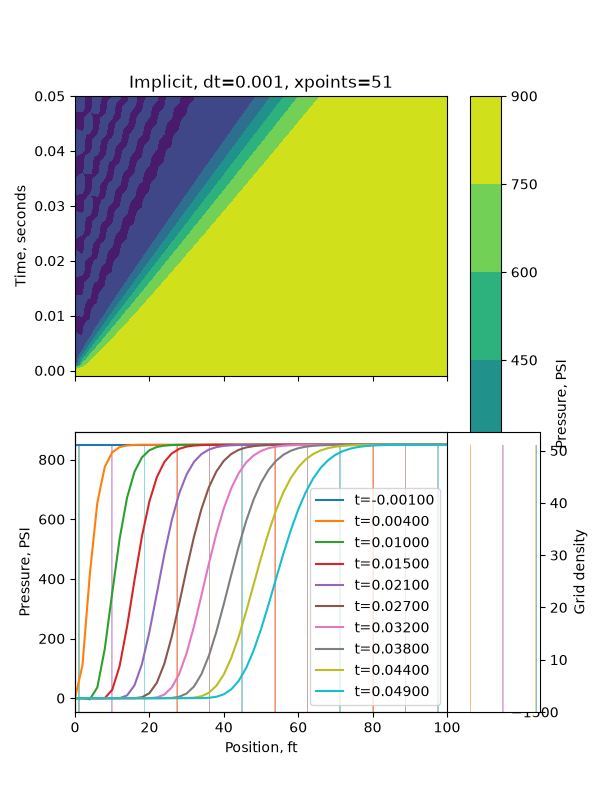
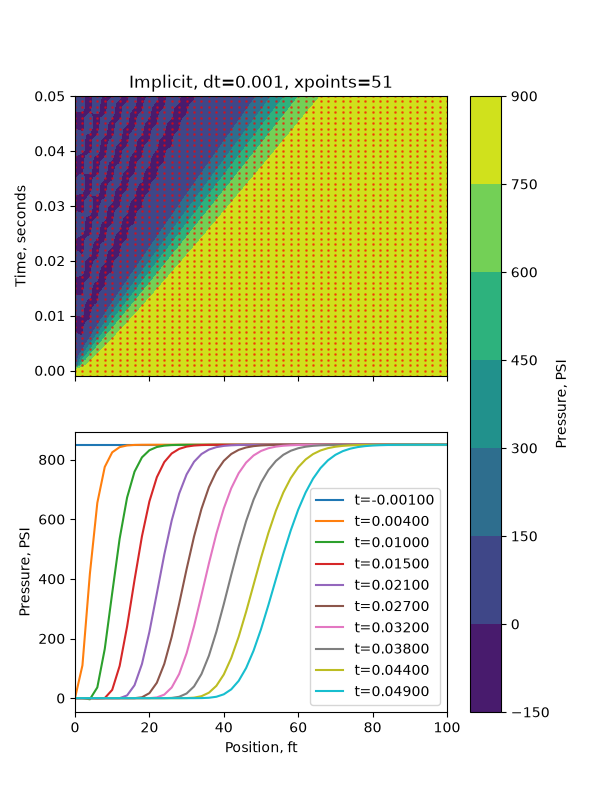
done with hmw1

diff --git a/hmw1.py b/hmw1.py
@@ -362,9 +362,9 @@ time_exec(sim_implicit, 0.01, "Implicit method")
 
 # showcase nonuniform grid density
 fullsim, xpos, tpos, tstep, L_points = sim_implicit(0.001, 0.05, 51)
-makeplot(fullsim, xpos, tpos, tstep, L_points, "Implicit", plot_density="single",name="4_1_implicit_linear")
+makeplot(fullsim, xpos, tpos, tstep, L_points, "Implicit", plot_density="overlay",name="4_1_implicit_linear")
 fullsim, xpos, tpos, tstep, L_points = sim_implicit(0.001, 0.05, 51, log=True)
-makeplot(fullsim, xpos, tpos, tstep, L_points, "Implicit", plot_density="single", name="4_1_implicit_log")
+makeplot(fullsim, xpos, tpos, tstep, L_points, "Implicit", plot_density="overlay", name="4_1_implicit_log")
 
 # showcase adaptive meshing
 fullsim, xpos, tpos, tstep, L_points = sim_implicit(0.001, 0.05, 51, adaptive=False, log=True)
